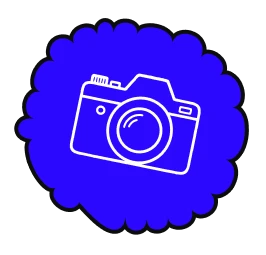
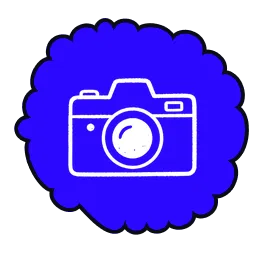
Reemplazar ilustración de stickers de cámara y mando (docentes)
Se limpió el ícono viejo dejando solo la 'nube' de color + borde
negro, y se compuso encima el nuevo dibujo que mandó el usuario (en
blanco, con su textura granulada), centrado y escalado a la misma
proporción que ocupaba el ícono anterior. Mismo tamaño en pantalla
(100x100px), no se tocó CSS ni TSX.

diff --git a/CHANGELOG.md b/CHANGELOG.md
@@ -7,6 +7,13 @@ y este proyecto adhiere a [Semantic Versioning](https://semver.org/lang/es/).
 
 ## [Unreleased]
 
+### Cambiado — Ilustración de los stickers de cámara y mando (docentes)
+
+- El usuario mandó 2 nuevas ilustraciones (cámara y mando de videojuegos) para reemplazar el dibujo interno de esos 2 stickers del carrusel de docentes, manteniendo el mismo tamaño y todo lo demás (fondo tipo nube azul/rojo, borde negro, posición, animación de balanceo).
+- Se regeneraron `Camera.webp` y `Controller.webp`: se limpió el ícono viejo del fondo original (dejando solo la "nube" de color + borde negro) y se compuso encima el nuevo dibujo (en blanco, conservando su textura granulada), centrado y escalado a la misma proporción que ocupaba el ícono anterior dentro del fondo.
+- No se tocó código (CSS/TSX) — son los mismos archivos de imagen, mismo nombre y ruta, así que el tamaño en pantalla (100×100px, ver `.pcd-sticker`) no cambia.
+- Archivos: `public/programa/img/Camera.webp`, `public/programa/img/Controller.webp`.
+
 ### Cambiado — Texto de proyectos del home cambia 500ms antes que la imagen
 
 - El texto (categoría/año/bajada) esperaba a que la imagen terminara del todo su crossfade (1800ms) para cambiar, y se sentía atrasado. Ahora tiene su propio timer (`TEXT_SWITCH_MS`, 500ms antes que la imagen) — cambia un poco antes de que la foto termine de asentarse.
